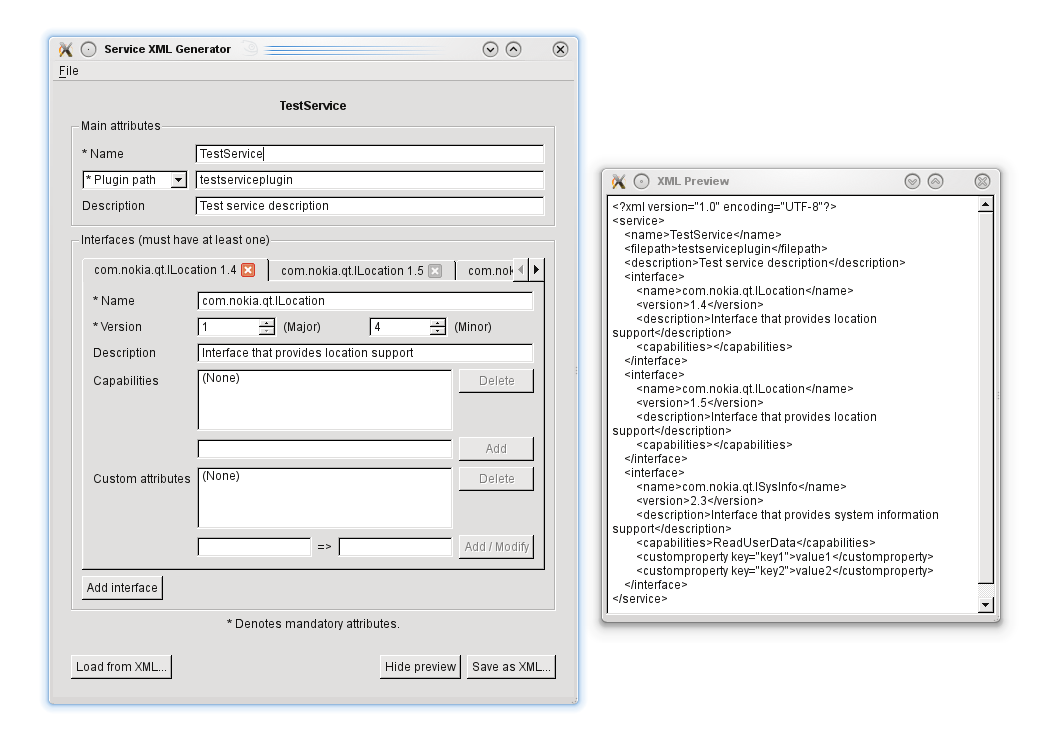
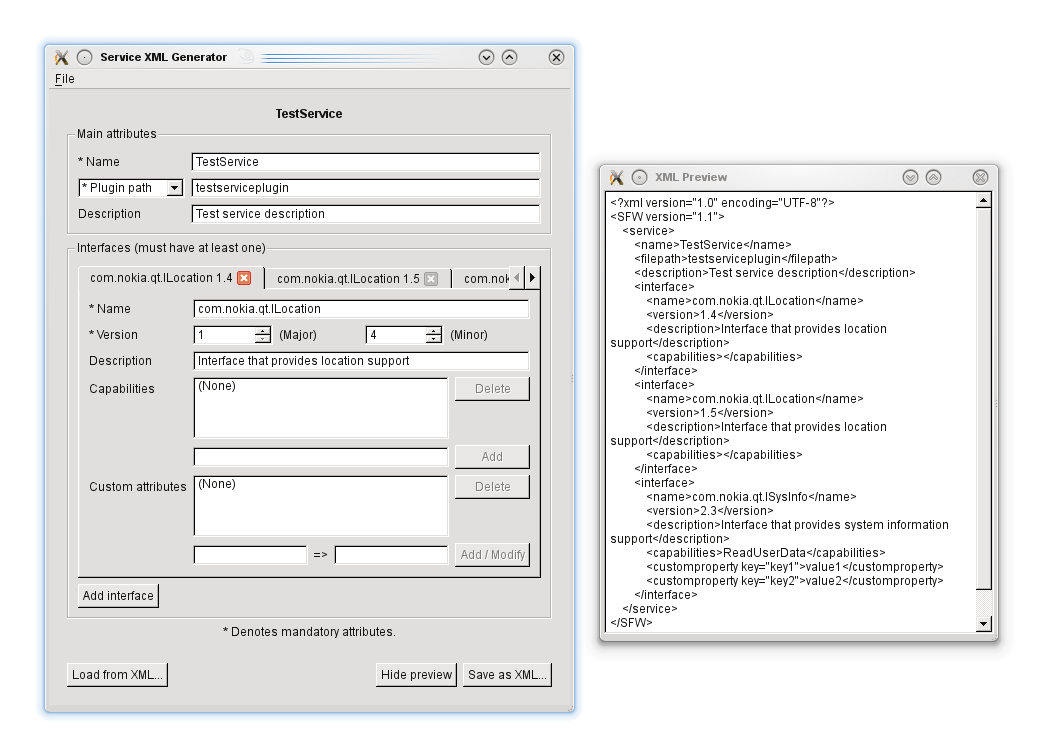
SFW xml version docs + more OOP

Changed region(s): [[0.0305, 0.0307, 0.9752, 0.9813]]

diff --git a/tools/servicexmlgen/servicexmlgen.cpp b/tools/servicexmlgen/servicexmlgen.cpp
@@ -107,8 +107,7 @@ ServiceXmlGenerator::ServiceXmlGenerator(QWidget *parent)
       m_unsavedData(false),
       m_serviceInfo(new ServiceWidget),
       m_buttonPreview(0),
-      m_previewEdit(new QPlainTextEdit),
-      m_version(QLatin1String("1.1"))
+      m_previewEdit(new QPlainTextEdit)
 {
     connect(m_serviceInfo, SIGNAL(dataChanged()), SLOT(serviceDataChanged()));
 
@@ -223,7 +222,6 @@ void ServiceXmlGenerator::loadFromXml(const QString& f)
         if (data.extractMetadata()) {
             m_serviceInfo->load(data.parseResults());
             m_unsavedData = false;
-            m_version = data.serviceXmlVersion();
             refreshPreview();
             return;
         }
@@ -331,7 +329,7 @@ void ServiceXmlGenerator::getServiceXml(QIODevice *device)
     writer.setAutoFormatting(true);
     writer.writeStartDocument();
     writer.writeStartElement(QLatin1String("SFW"));
-    writer.writeAttribute(QLatin1String("version"), m_version);
+    writer.writeAttribute(QLatin1String("version"), "1.1");
     writer.writeStartElement(QLatin1String("service"));
     m_serviceInfo->writeXml(&writer);
     writer.writeEndElement();

diff --git a/src/serviceframework/servicemetadata.cpp b/src/serviceframework/servicemetadata.cpp
@@ -704,11 +704,6 @@ void ServiceMetaData::transformVersion(const QString &version, int *major, int *
     }
 }
 
-QString ServiceMetaData::serviceXmlVersion()
-{
-    return xmlVersion;
-}
-
  /*
  *  Clears the service metadata
  *

diff --git a/tools/servicexmlgen/servicexmlgen.h b/tools/servicexmlgen/servicexmlgen.h
@@ -81,7 +81,6 @@ private:
 
     bool m_firstShow;
     bool m_unsavedData;
-    QString m_version;
     ServiceWidget *m_serviceInfo;
 
     QPushButton *m_buttonPreview;

diff --git a/src/serviceframework/servicemetadata_p.h b/src/serviceframework/servicemetadata_p.h
@@ -149,8 +149,6 @@ public:
 
     int getLatestError() const;
 
-    QString serviceXmlVersion();
-
     ServiceMetaDataResults parseResults() const;
 
 private:
